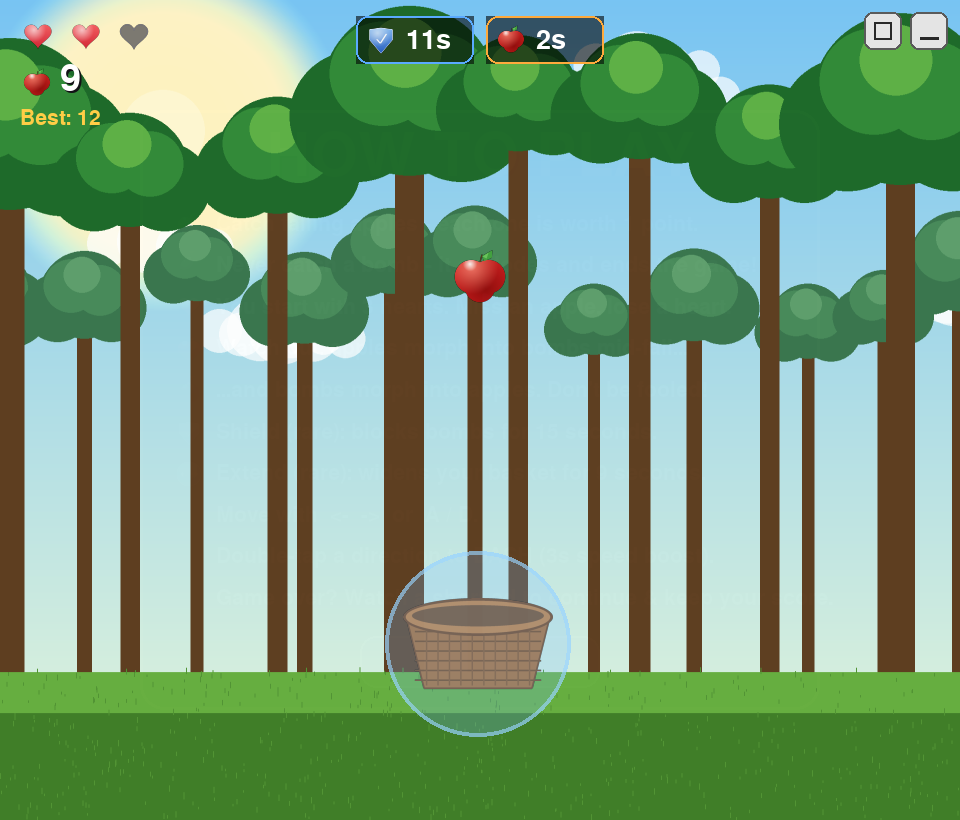
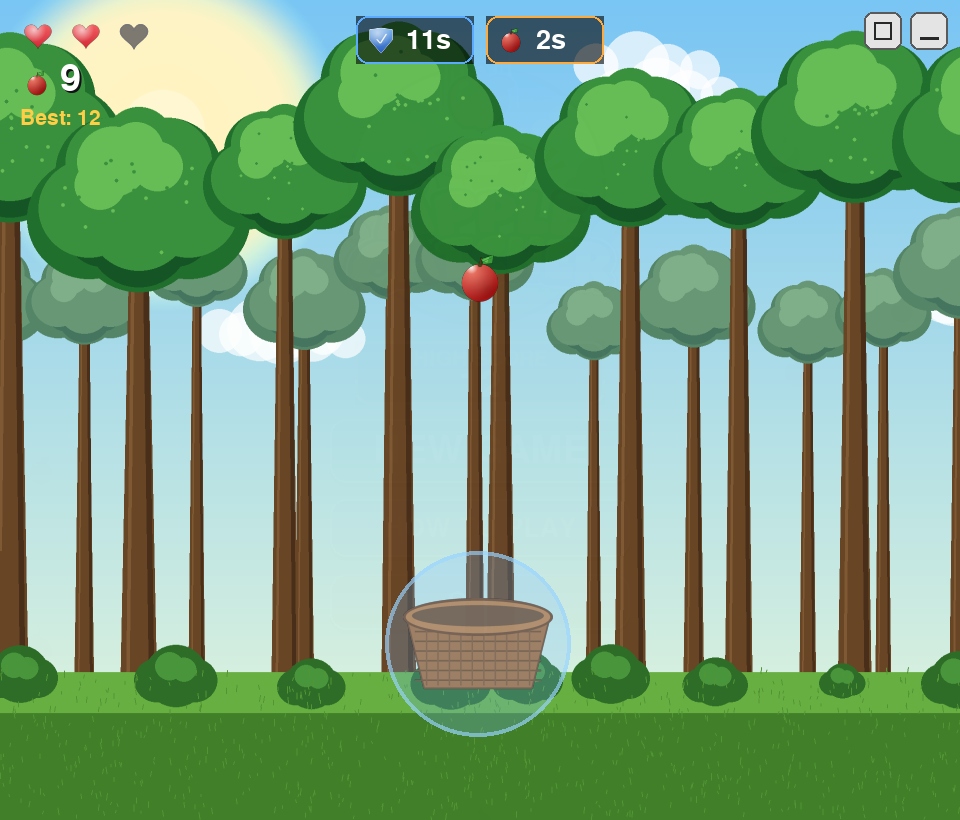
upgraded the trees

diff --git a/tools/generate_assets.py b/tools/generate_assets.py
@@ -73,44 +73,47 @@ def save(s, name, size):
 # --------------------------------------------------------------------------- #
 def make_apple(out_size=512):
     S = out_size * SS
-    cx, cy = S * 0.5, S * 0.52
-    r = S * 0.255
+    cx = S * 0.5
 
-    # Silhouette built from circles only, kept well inside the canvas so the
-    # rounded bottom is never clipped.
+    # Silhouette: one large body circle gives a single clean round bottom; two
+    # higher "shoulder" circles widen the top and leave a dimple at top-centre
+    # for the stem. The shoulders sit inside the body lower down, so they never
+    # create a second bump at the bottom.
     mask = surf(S, S)
-    for dx, dy in [(-0.13, -0.04), (0.13, -0.04)]:
-        pygame.draw.circle(mask, (255, 255, 255, 255),
-                           (int(cx + dx * S), int(cy + dy * S)), int(r))
-    pygame.draw.circle(mask, (255, 255, 255, 255), (int(cx), int(cy + 0.03 * S)), int(r * 1.02))
-    pygame.draw.circle(mask, (255, 255, 255, 255), (int(cx), int(cy + 0.12 * S)), int(r * 0.9))
+    # A single clean ellipse body, a touch taller than wide.
+    pygame.draw.ellipse(mask, (255, 255, 255, 255), (cx - 0.275 * S, 0.29 * S, 0.55 * S, 0.57 * S))
 
     art = surf(S, S)
     art.blit(mask.copy(), (0, 0))  # white base; recolour below
     base = surf(S, S)
-    base.fill((205, 34, 34, 255))
+    base.fill((206, 36, 36, 255))
     art.blit(base, (0, 0), special_flags=pygame.BLEND_RGBA_MULT)
-    # shading
-    art.blit(radial(S, (120, 6, 6, 170), (120, 6, 6, 0), (0.58, 0.66), 0.5), (0, 0))
-    art.blit(radial(S, (255, 140, 120, 205), (255, 140, 120, 0), (0.38, 0.34), 0.4), (0, 0))
-    art.blit(radial(S, (255, 255, 255, 235), (255, 255, 255, 0), (0.35, 0.29), 0.11), (0, 0))
-
+    # shading: dark vignette lower-right, warm glow upper-left, glossy specular
+    art.blit(radial(S, (120, 8, 8, 175), (120, 8, 8, 0), (0.60, 0.66), 0.54), (0, 0))
+    art.blit(radial(S, (255, 150, 130, 205), (255, 150, 130, 0), (0.38, 0.40), 0.44), (0, 0))
+    art.blit(radial(S, (255, 255, 255, 240), (255, 255, 255, 0), (0.37, 0.34), 0.10), (0, 0))
     apple = clip_to(art, mask)
 
-    # stem + leaf (drawn on top, above the body)
-    topy = cy - 0.04 * S - r
+    # small dark dimple at the very top where the stem sits
+    pygame.draw.circle(apple, (120, 16, 16, 110), (int(cx), int(S * 0.30)), int(S * 0.035))
+
+    # stem + two-tone leaf (drawn above the body)
+    topy = S * 0.30
     pygame.draw.line(apple, (96, 60, 28),
-                     (int(cx), int(topy + 0.03 * S)),
-                     (int(cx + 0.03 * S), int(topy - 0.08 * S)), int(S * 0.02))
-    leaf = [(cx + 0.03 * S, topy - 0.06 * S),
-            (cx + 0.19 * S, topy - 0.15 * S),
-            (cx + 0.18 * S, topy - 0.03 * S),
-            (cx + 0.06 * S, topy + 0.02 * S)]
-    pygame.draw.polygon(apple, (70, 165, 66), [(int(x), int(y)) for x, y in leaf])
-    pygame.draw.polygon(apple, (110, 200, 96),
-                        [(int(cx + 0.04 * S), int(topy - 0.05 * S)),
-                         (int(cx + 0.13 * S), int(topy - 0.11 * S)),
-                         (int(cx + 0.10 * S), int(topy - 0.02 * S))])
+                     (int(cx), int(topy)), (int(cx + 0.02 * S), int(topy - 0.11 * S)), int(S * 0.022))
+    leaf = [(cx + 0.02 * S, topy - 0.09 * S),
+            (cx + 0.20 * S, topy - 0.15 * S),
+            (cx + 0.19 * S, topy - 0.02 * S),
+            (cx + 0.05 * S, topy - 0.01 * S)]
+    pygame.draw.polygon(apple, (64, 158, 60), [(int(x), int(y)) for x, y in leaf])
+    pygame.draw.polygon(apple, (108, 198, 94),
+                        [(int(cx + 0.03 * S), int(topy - 0.07 * S)),
+                         (int(cx + 0.14 * S), int(topy - 0.12 * S)),
+                         (int(cx + 0.11 * S), int(topy - 0.03 * S))])
+    # leaf vein
+    pygame.draw.line(apple, (40, 120, 44),
+                     (int(cx + 0.05 * S), int(topy - 0.05 * S)),
+                     (int(cx + 0.19 * S), int(topy - 0.11 * S)), int(S * 0.008))
     save(apple, "apple.png", (out_size, out_size))
 
 
@@ -286,39 +289,92 @@ def make_forest(w=1920, h=1680):
             pygame.draw.circle(cl, (255, 255, 255, 180), (int(rr * 1.5), int(rr * 1.5)), rr)
             s.blit(cl, (cx + dx - rr, cy + dy - rr))
 
-    def tree(x, top_y, scale, greens):
-        tw = int(40 * scale)
-        pygame.draw.rect(s, (96, 64, 34), (x - tw // 2, top_y, tw, ground_y - top_y + 40))
-        r = int(120 * scale)
-        cx, cy = x, top_y - int(20 * scale)
-        for col, ox, oy, rf in [(greens[0], 0, 0, 1.0), (greens[0], -0.6, 0.3, 0.78),
-                                (greens[0], 0.6, 0.3, 0.78), (greens[1], -0.3, -0.2, 0.62),
-                                (greens[1], 0.35, -0.1, 0.58), (greens[2], -0.05, -0.45, 0.42)]:
-            pygame.draw.circle(s, col, (int(cx + ox * r), int(cy + oy * r)), int(r * rf))
+    def tree(x, top_y, scale, greens, speckle=True, rnd=None):
+        """A fuller tree: tapered shaded trunk + a rounded, dimensional canopy.
 
-    # far hazy tree line
+        ``greens`` = (underside, dark, mid, light) shades, dark -> light.
+        """
+        under, dark, mid, light = greens
+        base_y = ground_y + 40
+        tw = 46 * scale
+        # tapered trunk (wider at the base)
+        canopy_y = top_y - int(14 * scale)
+        trunk = [(x - tw * 0.55, base_y), (x + tw * 0.55, base_y),
+                 (x + tw * 0.26, canopy_y + 30 * scale), (x - tw * 0.26, canopy_y + 30 * scale)]
+        pygame.draw.polygon(s, (104, 70, 38), [(int(a), int(b)) for a, b in trunk])
+        pygame.draw.line(s, (128, 90, 52), (x - tw * 0.34, base_y),
+                         (x - tw * 0.16, canopy_y), max(2, int(5 * scale)))   # lit side
+        pygame.draw.line(s, (74, 48, 26), (x + tw * 0.38, base_y),
+                         (x + tw * 0.18, canopy_y), max(3, int(8 * scale)))   # shadow side
+        # a couple of branches
+        for sgn in (-1, 1):
+            pygame.draw.line(s, (92, 60, 32),
+                             (int(x), int(canopy_y + 50 * scale)),
+                             (int(x + sgn * 55 * scale), int(canopy_y + 8 * scale)),
+                             max(2, int(7 * scale)))
+
+        r = 120 * scale
+        cx, cy = x, canopy_y - int(8 * scale)
+        blob = [(0, 0.05, 1.0), (-0.58, 0.28, 0.72), (0.58, 0.28, 0.72),
+                (-0.33, -0.28, 0.64), (0.33, -0.28, 0.64), (0, -0.52, 0.5),
+                (0, 0.42, 0.74)]
+        # underside / dark base
+        for ox, oy, rf in blob:
+            pygame.draw.circle(s, dark, (int(cx + ox * r), int(cy + oy * r)), int(r * rf))
+        for ox, oy, rf in [(0, 0.5, 0.6), (-0.42, 0.42, 0.44), (0.42, 0.42, 0.44)]:
+            pygame.draw.circle(s, under, (int(cx + ox * r), int(cy + oy * r)), int(r * rf))
+        # mid tone, nudged up
+        for ox, oy, rf in blob:
+            pygame.draw.circle(s, mid, (int(cx + ox * r), int(cy + (oy - 0.12) * r)), int(r * rf * 0.82))
+        # top-left highlights
+        for ox, oy, rf in [(-0.3, -0.4, 0.42), (-0.03, -0.55, 0.32), (0.22, -0.34, 0.3),
+                           (-0.45, -0.12, 0.3)]:
+            pygame.draw.circle(s, light, (int(cx + ox * r), int(cy + oy * r)), int(r * rf))
+        # leaf speckles for texture
+        if speckle and rnd is not None:
+            for _ in range(int(26 * scale)):
+                a = rnd.uniform(0, 6.283); rad = rnd.uniform(0, r * 0.95)
+                px, py = cx + math.cos(a) * rad, cy + math.sin(a) * rad * 0.85
+                pygame.draw.circle(s, light if rnd.random() < 0.5 else mid,
+                                   (int(px), int(py)), max(1, int(3 * scale)))
+
+    # far hazy tree line (bluish, low contrast)
     rnd = random.Random(11)
     x = -40
     while x < w + 80:
         tree(x, rnd.randint(int(h * 0.30), int(h * 0.42)), rnd.uniform(0.6, 0.9),
-             [(60, 120, 80), (74, 140, 92), (96, 160, 110)])
+             [(70, 118, 96), (86, 134, 104), (104, 152, 118), (128, 176, 138)],
+             speckle=False)
         x += rnd.randint(150, 240)
     # near rich trees
     rnd = random.Random(7)
     x = 20
     while x < w + 100:
-        tree(x, rnd.randint(int(h * 0.12), int(h * 0.26)), rnd.uniform(0.95, 1.5),
-             [(32, 108, 44), (52, 140, 58), (96, 178, 72)])
-        x += rnd.randint(190, 300)
+        tree(x, rnd.randint(int(h * 0.12), int(h * 0.26)), rnd.uniform(1.0, 1.5),
+             [(22, 86, 38), (34, 112, 46), (58, 146, 62), (104, 190, 86)], rnd=rnd)
+        x += rnd.randint(200, 300)
 
     # ground
     pygame.draw.rect(s, (66, 128, 42), (0, ground_y, w, h - ground_y))
     pygame.draw.rect(s, (104, 176, 66), (0, ground_y, w, int(h * 0.05)))
+    # bushes along the forest floor for depth
+    rnd = random.Random(21)
+    x = 40
+    while x < w:
+        bx, by, bs = x, ground_y + int(rnd.uniform(0, 30)), rnd.uniform(0.5, 1.0)
+        for ox, oy, rf in [(0, 0, 1.0), (-0.6, 0.15, 0.7), (0.6, 0.15, 0.7), (0, -0.3, 0.6)]:
+            pygame.draw.circle(s, (46, 110, 40),
+                               (int(bx + ox * 70 * bs), int(by + oy * 70 * bs)), int(70 * bs * rf))
+        for ox, oy, rf in [(-0.2, -0.3, 0.45), (0.25, -0.2, 0.4)]:
+            pygame.draw.circle(s, (74, 150, 60),
+                               (int(bx + ox * 70 * bs), int(by + oy * 70 * bs)), int(70 * bs * rf))
+        x += rnd.randint(150, 320)
+    # grass blades
     rnd = random.Random(5)
-    for _ in range(600):
+    for _ in range(800):
         gx = rnd.randint(0, w); gy = rnd.randint(ground_y, h)
-        bl = rnd.randint(4, 12)
-        pygame.draw.line(s, (84, 150, 54), (gx, gy), (gx, gy - bl), 2)
+        bl = rnd.randint(5, 14)
+        pygame.draw.line(s, (84, 150, 54), (gx, gy), (gx + rnd.randint(-2, 2), gy - bl), 2)
 
     pygame.image.save(s, os.path.join(ASSETS, "forest_bg.png"))
     print("  wrote forest_bg.png", (w, h))

diff --git a/apple_catcher/game.py b/apple_catcher/game.py
@@ -9,7 +9,7 @@ from . import ui
 from .assets import Assets
 from .audio import Audio
 from .effects import Blast
-from .entities import FallingObject, Basket, APPLE, BOMB, SHIELD, EXTEND
+from .entities import FallingObject, Basket, APPLE, BOMB, SHIELD, EXTEND, HEART
 from .storage import load_highscore, save_highscore
 
 MENU, PLAYING, OVER, HELP = "menu", "playing", "over", "help"
@@ -312,6 +312,13 @@ class Game:
             self.basket.set_extended(True, self.width)
             self.audio.play("chime")
             self._spawn()
+        elif kind == HEART:
+            if self.lives < S.START_LIVES:
+                self.lives += 1          # restore a lost heart
+            else:
+                self.score += 2          # already full -> small bonus instead
+            self.audio.play("chime")
+            self._spawn()
 
     def _on_miss(self, kind):
         if kind == APPLE:
@@ -405,6 +412,7 @@ class Game:
         ("bomb", "...and bombs morph into apples. Don't be fooled!"),
         ("shield", "Shield (rare): blocks bombs for 15 seconds."),
         ("extend", "Extend (rare): widens your basket for 9 seconds."),
+        ("heart_full", "Heart (rare): restores a lost heart."),
         (None, "Move with  <-  ->  or  A / D."),
         (None, "Double-tap a direction to DASH (3s speed boost)."),
         (None, "Game over? Watch a short ad to continue & keep your score."),

diff --git a/apple_catcher/entities.py b/apple_catcher/entities.py
@@ -6,7 +6,11 @@ import pygame
 
 from . import settings as S
 
-APPLE, BOMB, SHIELD, EXTEND = "apple", "bomb", "shield", "extend"
+APPLE, BOMB, SHIELD, EXTEND, HEART = "apple", "bomb", "shield", "extend", "heart"
+
+# Falling-object kind -> image asset name
+ASSET_NAME = {APPLE: "apple", BOMB: "bomb", SHIELD: "shield",
+              EXTEND: "extend", HEART: "heart_full"}
 
 
 class FallingObject:
@@ -22,7 +26,9 @@ class FallingObject:
             self.kind = SHIELD
         elif roll < S.P_SHIELD + S.P_EXTEND:
             self.kind = EXTEND
-        elif roll < S.P_SHIELD + S.P_EXTEND + S.P_BOMB:
+        elif roll < S.P_SHIELD + S.P_EXTEND + S.P_HEART:
+            self.kind = HEART
+        elif roll < S.P_SHIELD + S.P_EXTEND + S.P_HEART + S.P_BOMB:
             self.kind = BOMB
         else:
             self.kind = APPLE
@@ -93,7 +99,7 @@ class FallingObject:
             pygame.draw.circle(puff, (255, 255, 255, alpha),
                                (ring_r + 3, ring_r + 3), ring_r, max(2, int(self.radius * 0.2)))
             screen.blit(puff, (int(self.x) - ring_r - 3, int(self.y) - ring_r - 3))
-        img = assets.scaled(self.kind, (size, size))
+        img = assets.scaled(ASSET_NAME[self.kind], (size, size))
         rect = img.get_rect(center=(int(self.x), int(self.y)))
         screen.blit(img, rect)
 

diff --git a/apple_catcher/settings.py b/apple_catcher/settings.py
@@ -27,6 +27,7 @@ SPEED_BY_SCORE = 9          # +px/s per apple caught
 # Spawn probabilities for each new drop (apple fills the remainder)
 P_SHIELD = 0.05
 P_EXTEND = 0.05
+P_HEART = 0.045
 P_BOMB = 0.18
 # Chance a falling apple/bomb morphs into the other type mid-fall
 TRANSFORM_CHANCE = 0.30

diff --git a/README.md b/README.md
@@ -28,6 +28,7 @@ Catch apples, dodge bombs, grab power-ups, and chase a new high score.
 | ⚡ **Dash boost** | Double-tap a direction to dash — the basket moves faster for 3 seconds. |
 | 🛡 **Shield power-up** | A rare drop that shields the basket from bombs for 15 seconds. |
 | ↔ **Basket extension** | A rare drop that widens the basket for 9 seconds. |
+| ❤ **Heart drop** | A rare drop that restores a lost heart (or a small score bonus if you're already full). |
 | ⏱ **Live power-up timers** | Active shield / extension / dash timers are shown at the top of the screen. |
 | 📺 **Watch-ad continue** | After a game over, watch a short ad to revive and keep your score. |
 | 🏆 **Persistent high score** | Your best run is saved between sessions. |
